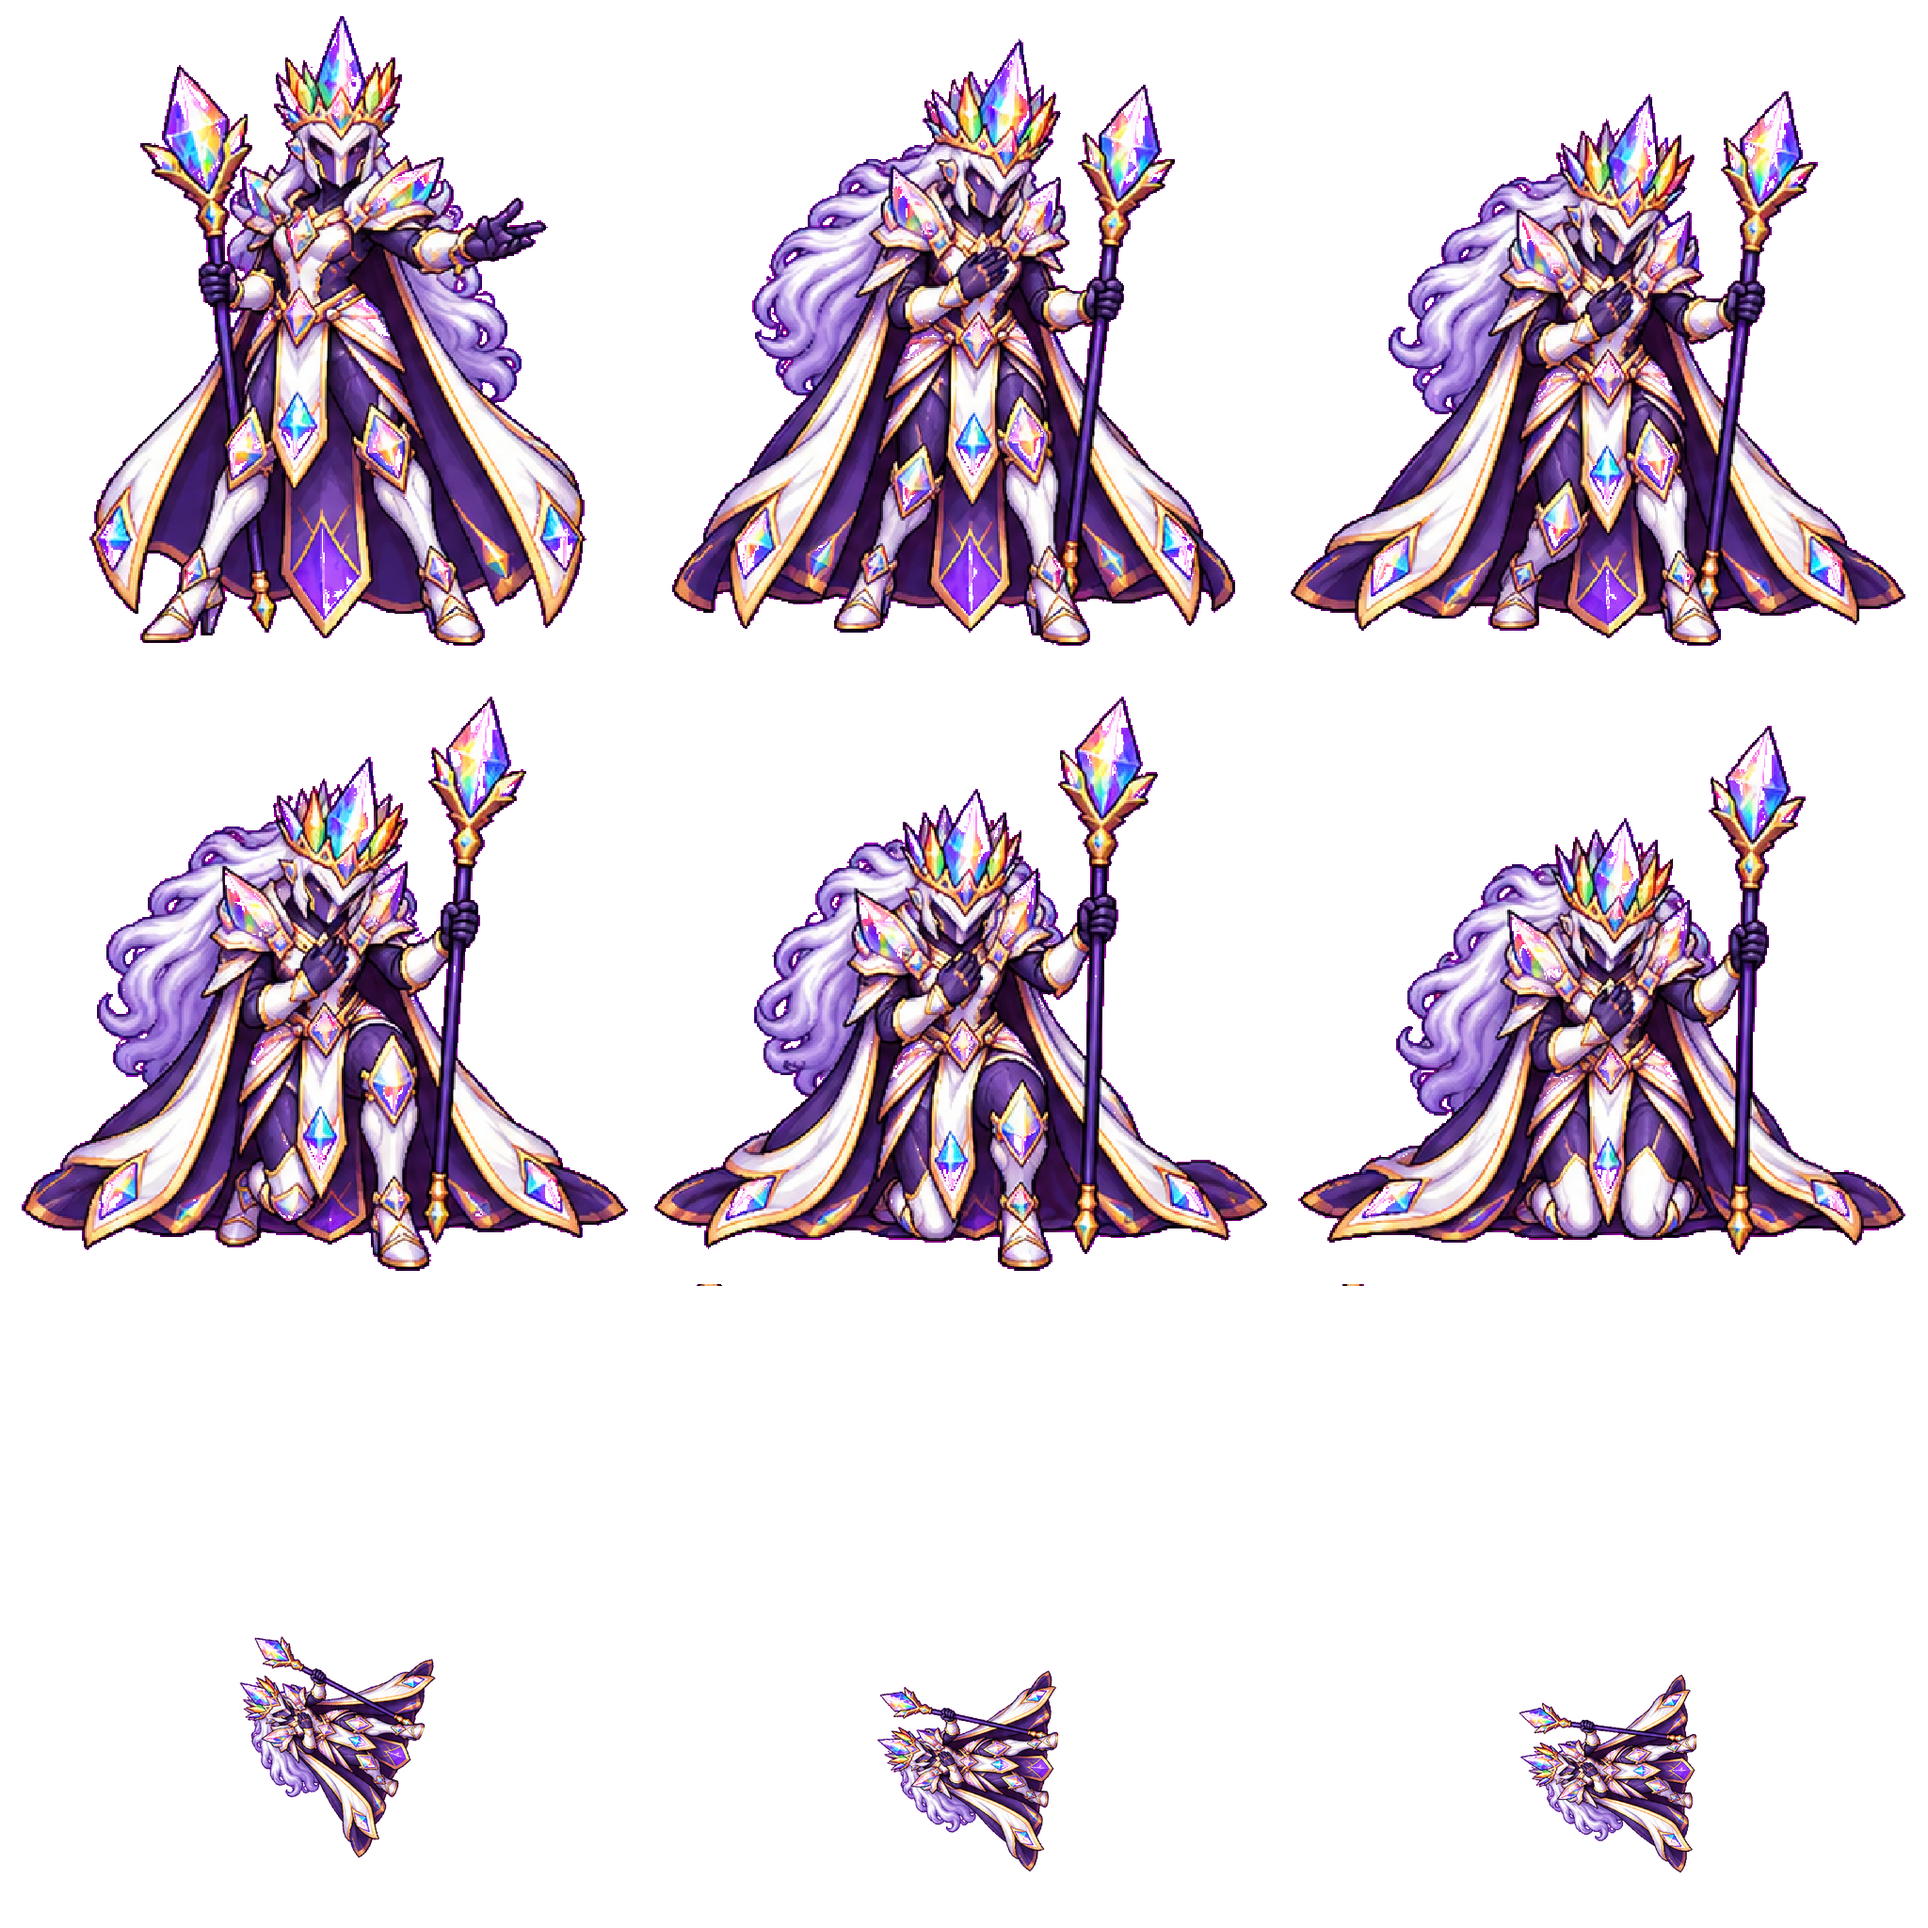
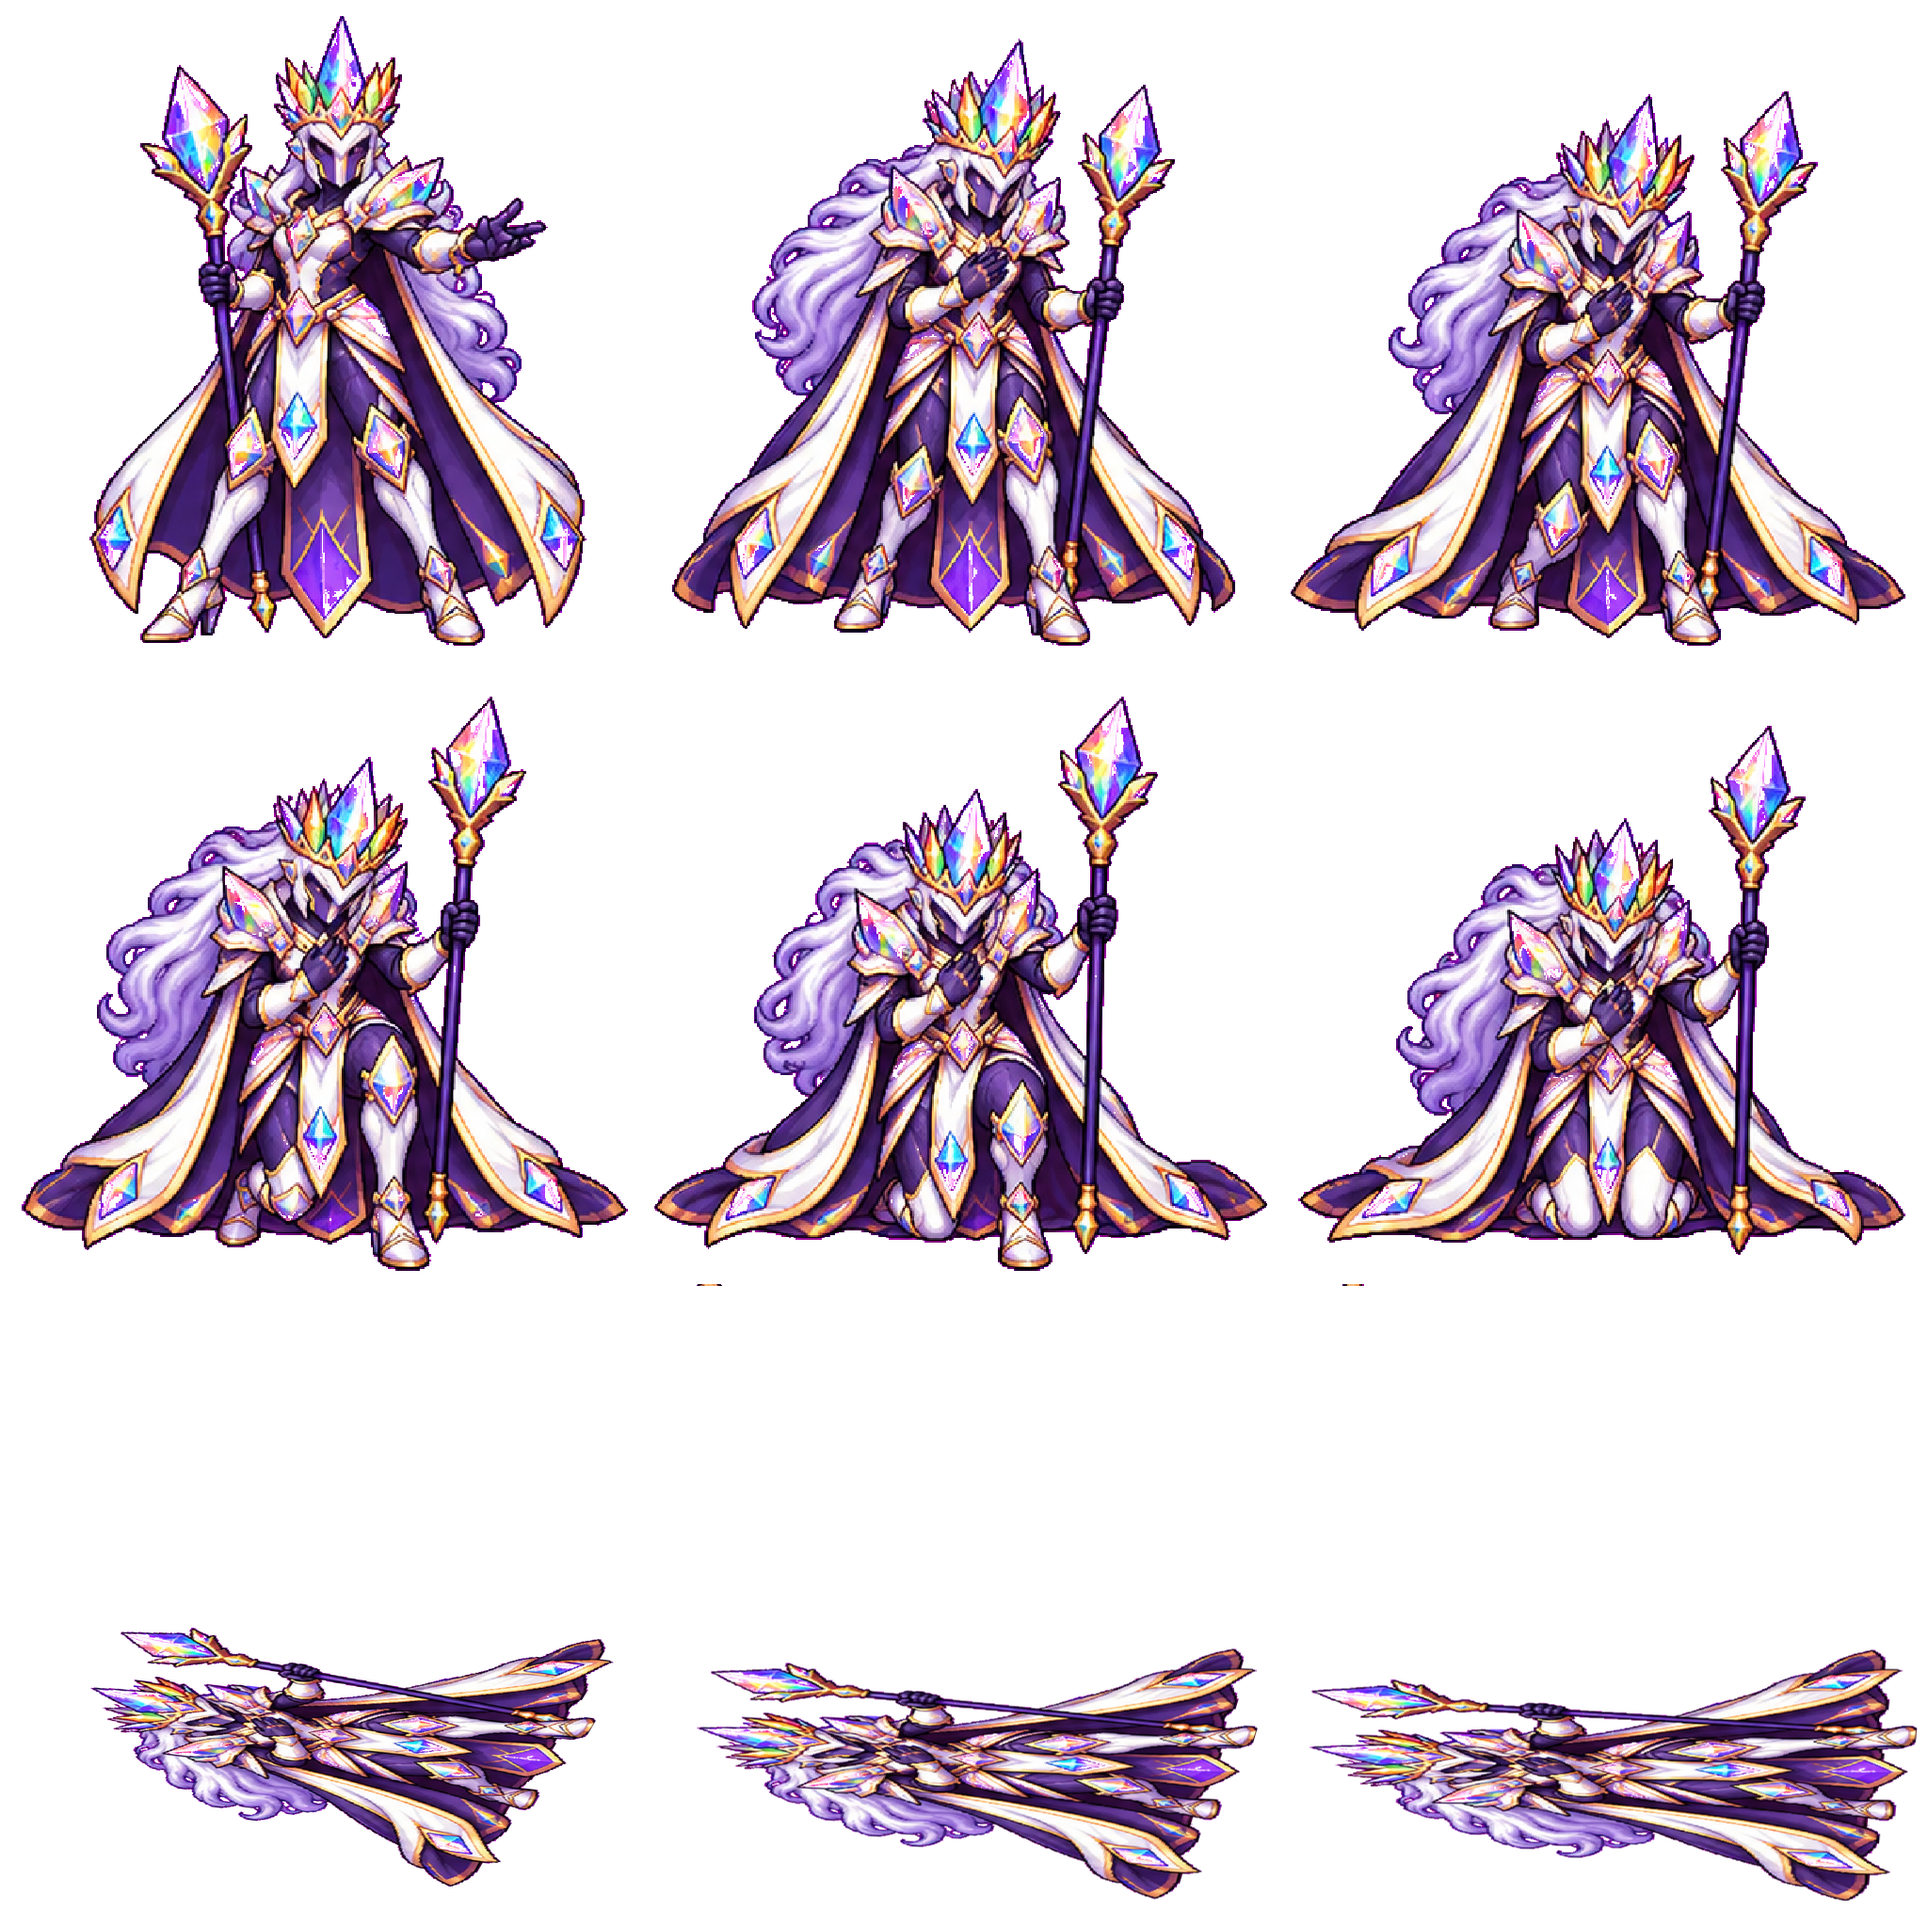
prism-queen defeat passes; lying rows of per-action sets keep full-length floor frames (build + gate mirror the rule); regeneration queue cleared

Changed region(s): [[0.6875, 0.8438, 1.0, 1.0], [0.375, 0.8438, 0.6562, 1.0], [0.0312, 0.8438, 0.3125, 1.0]]

diff --git a/docs/asset-prompts.md b/docs/asset-prompts.md
@@ -138,22 +138,12 @@ Every set below is held to [character-art-standard.md](./character-art-standard.
 that document's STYLE BLOCK and FRAME BLOCK verbatim, attach the reference sheet and the character
 sheet named here to every request, one action per request, and run
 `npm run verify:character -- <id>` after each file. These prompts are only the failing or missing
-files — the rest of each set stays as delivered. (Omri's red/black set, abyss-dragon's idle and storm-colossus's idle landed and pass.)
+files — the rest of each set stays as delivered.
 
-### prism-queen — `defeat.png` (second attempt: frames 7–9 came back at a quarter size)
-
-The first row never lay down; the second lies down but frames 7–9 were drawn as tiny figures (12–14 %
-of the row's area), which the build rejects — she currently "dies" kneeling on a held frame 6.
-Regenerate only `defeat.png`. Attach the delivered `idle.png` as the size reference and bold the
-size line:
-
-> `[FRAME BLOCK]` Character exactly as in the attached file. Action: **defeat** — 1 upright, struck,
-> 2 the sceptre drops, 3 she sinks to one knee, 4 the prismatic aura shatters into falling shards,
-> 5–6 she topples sideways, 7 lands on her side, **8–9 flat on the ground, identical, staying down**,
-> the sceptre beside her and the last shards settling. **The fallen figure is the same size as the
-> standing one in frame 1 and in the attached idle.png — she lies flat across the bottom of the
-> cell, full length, she does not shrink, fade or recede into the distance.** Her body on the final
-> two frames is lower than half her standing height and as wide as she is tall.
+All four entries of the first queue (Omri's nine files, abyss-dragon idle, storm-colossus idle,
+prism-queen defeat) have landed and pass. Nothing is queued under the standard right now; the
+legacy roster (byte, nepho, punk, chainer, brawler, kicker, knight, shield and the ten campaign
+bosses) still needs full per-action sets — see *Required now* and *Optional polish* below.
 
 ---
 

diff --git a/docs/character-art-standard.md b/docs/character-art-standard.md
@@ -207,7 +207,7 @@ the machine can see it, a check.
 | Omri's old `block.png` figure 24 % smaller than his other files | same size in every file (±12 %) | `verify-character` |
 | abyss-dragon / storm-colossus `idle` padded with repeated frames | 9 distinct poses | `verify-character` |
 | prism-queen `defeat` never lies down → boss "dies" standing | defeat ends flat and settled | `verify-character` |
-| prism-queen `defeat` regenerated with frames 7–9 drawn at a quarter of the size | same figure size in every frame of a row; the build rejects a frame under 55 % of the row's area | `verify-character`, build |
+| prism-queen `defeat` regenerated with frames 7–9 drawn at a quarter of the size | same figure size in every frame of a row; a frame under 55 % of the row's area is rejected — unless, on a lying row of a per-action set, it keeps its full length (a body flat on the floor) | `verify-character`, build |
 | Legacy 6-frame rows with 3 distinct poses drawn twice each | 9 distinct frames per row | `verify-character` |
 | Byte's grids delivered as a copy of another hero | identity from a character sheet, checked at review | build warns, review |
 | Bosses on legacy grids losing 1–3 frames whose figure is mostly missing (`partial-figure`) | every cell holds the whole figure; empty/partial cells rejected | `verify-character`, build |
